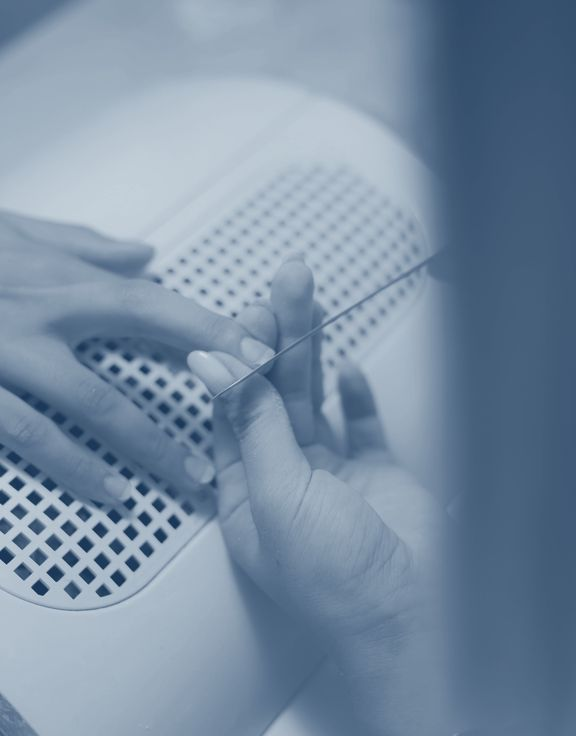
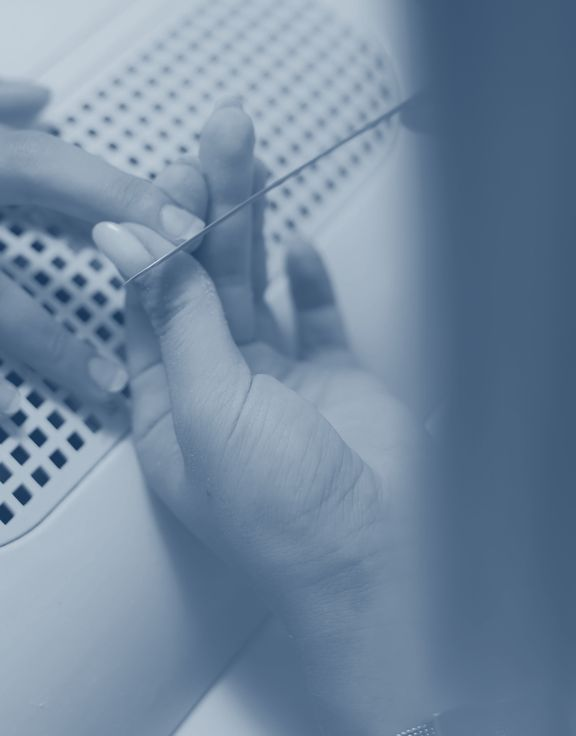
Fotos de cerámica y uñas reencuadradas; títulos sobre azul en amarillo
- Cerámica y uñas recortadas desde los originales para subir las manos y
  que no las tape la conversación con la IA
- scripts/foto-hero.py: opción --recorte; fotos del hero con versión
- Títulos sobre fondo azul en amarillo con sombra sólida rosa

Claude-Session: https://claude.ai/code/session_019NfB4hVUKpwK8j8njTc7B6

diff --git a/index.html b/index.html
@@ -31,7 +31,7 @@
   <link rel="preconnect" href="https://fonts.googleapis.com">
   <link rel="preconnect" href="https://fonts.gstatic.com" crossorigin>
   <link href="https://fonts.googleapis.com/css2?family=Archivo+Black&family=Montserrat:ital,wght@0,400;0,500;0,600;0,700;0,800;1,500&display=swap" rel="stylesheet">
-  <link rel="stylesheet" href="assets/css/styles.css?v=44">
+  <link rel="stylesheet" href="assets/css/styles.css?v=45">
 
   <!-- Datos estructurados: ayudan a Google y a los asistentes de IA a entender quiénes somos -->
   <script type="application/ld+json">
@@ -144,17 +144,17 @@
         <div class="alogo alogo--nav" aria-hidden="true">
           <div class="alogo__leap alogo__leap--back">
             <div class="alogo__swing">
-              <img class="alogo__tailback" src="assets/img/logo/logo-tail.webp?v=44" alt="" width="307" height="269">
+              <img class="alogo__tailback" src="assets/img/logo/logo-tail.webp?v=45" alt="" width="307" height="269">
             </div>
-            <img class="alogo__jaguar" src="assets/img/logo/logo-jaguar.webp?v=44" alt="" width="606" height="518">
+            <img class="alogo__jaguar" src="assets/img/logo/logo-jaguar.webp?v=45" alt="" width="606" height="518">
           </div>
-          <img class="alogo__rstar" src="assets/img/logo/logo-star-red.webp?v=44" alt="" width="444" height="576">
+          <img class="alogo__rstar" src="assets/img/logo/logo-star-red.webp?v=45" alt="" width="444" height="576">
           <div class="alogo__text">
-            <div class="alogo__beat alogo__beat--s"><img class="alogo__singular" src="assets/img/logo/logo-singular.webp?v=44" alt="" width="863" height="132"></div>
-            <div class="alogo__beat alogo__beat--a"><img class="alogo__agencia" src="assets/img/logo/logo-agencia.webp?v=44" alt="" width="1051" height="394"></div>
+            <div class="alogo__beat alogo__beat--s"><img class="alogo__singular" src="assets/img/logo/logo-singular.webp?v=45" alt="" width="863" height="132"></div>
+            <div class="alogo__beat alogo__beat--a"><img class="alogo__agencia" src="assets/img/logo/logo-agencia.webp?v=45" alt="" width="1051" height="394"></div>
           </div>
           <div class="alogo__leap alogo__leap--front">
-            <img class="alogo__feet" src="assets/img/logo/logo-feet.webp?v=44" alt="" width="529" height="148">
+            <img class="alogo__feet" src="assets/img/logo/logo-feet.webp?v=45" alt="" width="529" height="148">
           </div>
         </div>
       </a>
@@ -206,17 +206,17 @@
               <div class="alogo hero__logo" role="img" aria-label="Agencia Singular: logotipo con jaguar y estrellas">
                 <div class="alogo__leap alogo__leap--back">
                   <div class="alogo__swing">
-                    <img class="alogo__tailback" src="assets/img/logo/logo-tail.webp?v=44" alt="" width="307" height="269">
+                    <img class="alogo__tailback" src="assets/img/logo/logo-tail.webp?v=45" alt="" width="307" height="269">
                   </div>
-                  <img class="alogo__jaguar" src="assets/img/logo/logo-jaguar.webp?v=44" alt="" width="606" height="518" fetchpriority="high">
+                  <img class="alogo__jaguar" src="assets/img/logo/logo-jaguar.webp?v=45" alt="" width="606" height="518" fetchpriority="high">
                 </div>
-                <img class="alogo__rstar" src="assets/img/logo/logo-star-red.webp?v=44" alt="" width="444" height="576">
+                <img class="alogo__rstar" src="assets/img/logo/logo-star-red.webp?v=45" alt="" width="444" height="576">
                 <div class="alogo__text">
-                  <div class="alogo__beat alogo__beat--s"><img class="alogo__singular" src="assets/img/logo/logo-singular.webp?v=44" alt="" width="863" height="132"></div>
-                  <div class="alogo__beat alogo__beat--a"><img class="alogo__agencia" src="assets/img/logo/logo-agencia.webp?v=44" alt="" width="1051" height="394"></div>
+                  <div class="alogo__beat alogo__beat--s"><img class="alogo__singular" src="assets/img/logo/logo-singular.webp?v=45" alt="" width="863" height="132"></div>
+                  <div class="alogo__beat alogo__beat--a"><img class="alogo__agencia" src="assets/img/logo/logo-agencia.webp?v=45" alt="" width="1051" height="394"></div>
                 </div>
                 <div class="alogo__leap alogo__leap--front">
-                  <img class="alogo__feet" src="assets/img/logo/logo-feet.webp?v=44" alt="" width="529" height="148">
+                  <img class="alogo__feet" src="assets/img/logo/logo-feet.webp?v=45" alt="" width="529" height="148">
                 </div>
               </div>
             </div>
@@ -303,8 +303,9 @@
               try { localStorage.setItem("hero-negocio", b.id); } catch (e) {}
               var $ = function (s) { return document.querySelector("[data-hero-" + s + "]"); };
               var base = "assets/img/hero/" + b.photo;
-              $("source").srcset = base + ".webp";
-              $("img").src = base + ".jpg";
+              var v = "?v=2"; /* súbelo al cambiar alguna foto para que el navegador la recargue */
+              $("source").srcset = base + ".webp" + v;
+              $("img").src = base + ".jpg" + v;
               $("img").alt = b.alt;
               $("name").textContent = b.name;
               $("rating").textContent = b.rating;
@@ -997,17 +998,17 @@
             <div class="alogo alogo--footer" aria-hidden="true">
             <div class="alogo__leap alogo__leap--back">
               <div class="alogo__swing">
-                <img class="alogo__tailback" src="assets/img/logo/logo-tail.webp?v=44" alt="" width="307" height="269">
+                <img class="alogo__tailback" src="assets/img/logo/logo-tail.webp?v=45" alt="" width="307" height="269">
               </div>
-              <img class="alogo__jaguar" src="assets/img/logo/logo-jaguar.webp?v=44" alt="" width="606" height="518">
+              <img class="alogo__jaguar" src="assets/img/logo/logo-jaguar.webp?v=45" alt="" width="606" height="518">
             </div>
-            <img class="alogo__rstar" src="assets/img/logo/logo-star-red.webp?v=44" alt="" width="444" height="576">
+            <img class="alogo__rstar" src="assets/img/logo/logo-star-red.webp?v=45" alt="" width="444" height="576">
             <div class="alogo__text">
-              <div class="alogo__beat alogo__beat--s"><img class="alogo__singular" src="assets/img/logo/logo-singular.webp?v=44" alt="" width="863" height="132"></div>
-              <div class="alogo__beat alogo__beat--a"><img class="alogo__agencia" src="assets/img/logo/logo-agencia.webp?v=44" alt="" width="1051" height="394"></div>
+              <div class="alogo__beat alogo__beat--s"><img class="alogo__singular" src="assets/img/logo/logo-singular.webp?v=45" alt="" width="863" height="132"></div>
+              <div class="alogo__beat alogo__beat--a"><img class="alogo__agencia" src="assets/img/logo/logo-agencia.webp?v=45" alt="" width="1051" height="394"></div>
             </div>
             <div class="alogo__leap alogo__leap--front">
-              <img class="alogo__feet" src="assets/img/logo/logo-feet.webp?v=44" alt="" width="529" height="148">
+              <img class="alogo__feet" src="assets/img/logo/logo-feet.webp?v=45" alt="" width="529" height="148">
             </div>
           </div>
           </a>
@@ -1051,6 +1052,6 @@
     <a class="btn btn--yellow" href="#contacto"><svg class="icon icon--line" aria-hidden="true"><use href="#i-steth"/></svg>Diagnóstico gratis</a>
   </div>
 
-  <script src="assets/js/main.js?v=44" defer></script>
+  <script src="assets/js/main.js?v=45" defer></script>
 </body>
 </html>

diff --git a/contratar.html b/contratar.html
@@ -15,7 +15,7 @@
   <link rel="preconnect" href="https://fonts.googleapis.com">
   <link rel="preconnect" href="https://fonts.gstatic.com" crossorigin>
   <link href="https://fonts.googleapis.com/css2?family=Archivo+Black&family=Montserrat:ital,wght@0,400;0,500;0,600;0,700;0,800;1,500&display=swap" rel="stylesheet">
-  <link rel="stylesheet" href="assets/css/styles.css?v=44">
+  <link rel="stylesheet" href="assets/css/styles.css?v=45">
 </head>
 <body>
   <a class="skip-link" href="#main">Saltar al contenido</a>
@@ -59,17 +59,17 @@
         <div class="alogo alogo--nav" aria-hidden="true">
           <div class="alogo__leap alogo__leap--back">
             <div class="alogo__swing">
-              <img class="alogo__tailback" src="assets/img/logo/logo-tail.webp?v=44" alt="" width="307" height="269">
+              <img class="alogo__tailback" src="assets/img/logo/logo-tail.webp?v=45" alt="" width="307" height="269">
             </div>
-            <img class="alogo__jaguar" src="assets/img/logo/logo-jaguar.webp?v=44" alt="" width="606" height="518">
+            <img class="alogo__jaguar" src="assets/img/logo/logo-jaguar.webp?v=45" alt="" width="606" height="518">
           </div>
-          <img class="alogo__rstar" src="assets/img/logo/logo-star-red.webp?v=44" alt="" width="444" height="576">
+          <img class="alogo__rstar" src="assets/img/logo/logo-star-red.webp?v=45" alt="" width="444" height="576">
           <div class="alogo__text">
-            <div class="alogo__beat alogo__beat--s"><img class="alogo__singular" src="assets/img/logo/logo-singular.webp?v=44" alt="" width="863" height="132"></div>
-            <div class="alogo__beat alogo__beat--a"><img class="alogo__agencia" src="assets/img/logo/logo-agencia.webp?v=44" alt="" width="1051" height="394"></div>
+            <div class="alogo__beat alogo__beat--s"><img class="alogo__singular" src="assets/img/logo/logo-singular.webp?v=45" alt="" width="863" height="132"></div>
+            <div class="alogo__beat alogo__beat--a"><img class="alogo__agencia" src="assets/img/logo/logo-agencia.webp?v=45" alt="" width="1051" height="394"></div>
           </div>
           <div class="alogo__leap alogo__leap--front">
-            <img class="alogo__feet" src="assets/img/logo/logo-feet.webp?v=44" alt="" width="529" height="148">
+            <img class="alogo__feet" src="assets/img/logo/logo-feet.webp?v=45" alt="" width="529" height="148">
           </div>
         </div>
       </a>
@@ -317,6 +317,6 @@
     </div>
   </footer>
 
-  <script src="assets/js/main.js?v=44" defer></script>
+  <script src="assets/js/main.js?v=45" defer></script>
 </body>
 </html>

diff --git a/guia-aparecer-en-ia-y-google-maps.html b/guia-aparecer-en-ia-y-google-maps.html
@@ -23,7 +23,7 @@
   <link rel="preconnect" href="https://fonts.googleapis.com">
   <link rel="preconnect" href="https://fonts.gstatic.com" crossorigin>
   <link href="https://fonts.googleapis.com/css2?family=Archivo+Black&family=Montserrat:ital,wght@0,400;0,500;0,600;0,700;0,800;1,500&display=swap" rel="stylesheet">
-  <link rel="stylesheet" href="assets/css/styles.css?v=44">
+  <link rel="stylesheet" href="assets/css/styles.css?v=45">
 
   <script type="application/ld+json">
   {
@@ -78,17 +78,17 @@
         <div class="alogo alogo--nav" aria-hidden="true">
           <div class="alogo__leap alogo__leap--back">
             <div class="alogo__swing">
-              <img class="alogo__tailback" src="assets/img/logo/logo-tail.webp?v=44" alt="" width="307" height="269">
+              <img class="alogo__tailback" src="assets/img/logo/logo-tail.webp?v=45" alt="" width="307" height="269">
             </div>
-            <img class="alogo__jaguar" src="assets/img/logo/logo-jaguar.webp?v=44" alt="" width="606" height="518">
+            <img class="alogo__jaguar" src="assets/img/logo/logo-jaguar.webp?v=45" alt="" width="606" height="518">
           </div>
-          <img class="alogo__rstar" src="assets/img/logo/logo-star-red.webp?v=44" alt="" width="444" height="576">
+          <img class="alogo__rstar" src="assets/img/logo/logo-star-red.webp?v=45" alt="" width="444" height="576">
           <div class="alogo__text">
-            <div class="alogo__beat alogo__beat--s"><img class="alogo__singular" src="assets/img/logo/logo-singular.webp?v=44" alt="" width="863" height="132"></div>
-            <div class="alogo__beat alogo__beat--a"><img class="alogo__agencia" src="assets/img/logo/logo-agencia.webp?v=44" alt="" width="1051" height="394"></div>
+            <div class="alogo__beat alogo__beat--s"><img class="alogo__singular" src="assets/img/logo/logo-singular.webp?v=45" alt="" width="863" height="132"></div>
+            <div class="alogo__beat alogo__beat--a"><img class="alogo__agencia" src="assets/img/logo/logo-agencia.webp?v=45" alt="" width="1051" height="394"></div>
           </div>
           <div class="alogo__leap alogo__leap--front">
-            <img class="alogo__feet" src="assets/img/logo/logo-feet.webp?v=44" alt="" width="529" height="148">
+            <img class="alogo__feet" src="assets/img/logo/logo-feet.webp?v=45" alt="" width="529" height="148">
           </div>
         </div>
       </a>
@@ -274,6 +274,6 @@
     </div>
   </footer>
 
-  <script src="assets/js/main.js?v=44" defer></script>
+  <script src="assets/js/main.js?v=45" defer></script>
 </body>
 </html>

diff --git a/404.html b/404.html
@@ -13,7 +13,7 @@
   <link rel="preconnect" href="https://fonts.googleapis.com">
   <link rel="preconnect" href="https://fonts.gstatic.com" crossorigin>
   <link href="https://fonts.googleapis.com/css2?family=Archivo+Black&family=Montserrat:wght@400;500;600;700;800&display=swap" rel="stylesheet">
-  <link rel="stylesheet" href="assets/css/styles.css?v=44">
+  <link rel="stylesheet" href="assets/css/styles.css?v=45">
 </head>
 <body>
   <header class="site-header">
@@ -22,17 +22,17 @@
         <div class="alogo alogo--nav" aria-hidden="true">
           <div class="alogo__leap alogo__leap--back">
             <div class="alogo__swing">
-              <img class="alogo__tailback" src="assets/img/logo/logo-tail.webp?v=44" alt="" width="307" height="269">
+              <img class="alogo__tailback" src="assets/img/logo/logo-tail.webp?v=45" alt="" width="307" height="269">
             </div>
-            <img class="alogo__jaguar" src="assets/img/logo/logo-jaguar.webp?v=44" alt="" width="606" height="518">
+            <img class="alogo__jaguar" src="assets/img/logo/logo-jaguar.webp?v=45" alt="" width="606" height="518">
           </div>
-          <img class="alogo__rstar" src="assets/img/logo/logo-star-red.webp?v=44" alt="" width="444" height="576">
+          <img class="alogo__rstar" src="assets/img/logo/logo-star-red.webp?v=45" alt="" width="444" height="576">
           <div class="alogo__text">
-            <div class="alogo__beat alogo__beat--s"><img class="alogo__singular" src="assets/img/logo/logo-singular.webp?v=44" alt="" width="863" height="132"></div>
-            <div class="alogo__beat alogo__beat--a"><img class="alogo__agencia" src="assets/img/logo/logo-agencia.webp?v=44" alt="" width="1051" height="394"></div>
+            <div class="alogo__beat alogo__beat--s"><img class="alogo__singular" src="assets/img/logo/logo-singular.webp?v=45" alt="" width="863" height="132"></div>
+            <div class="alogo__beat alogo__beat--a"><img class="alogo__agencia" src="assets/img/logo/logo-agencia.webp?v=45" alt="" width="1051" height="394"></div>
           </div>
           <div class="alogo__leap alogo__leap--front">
-            <img class="alogo__feet" src="assets/img/logo/logo-feet.webp?v=44" alt="" width="529" height="148">
+            <img class="alogo__feet" src="assets/img/logo/logo-feet.webp?v=45" alt="" width="529" height="148">
           </div>
         </div>
       </a>
@@ -58,6 +58,6 @@
       </div>
     </div>
   </footer>
-  <script src="assets/js/main.js?v=44" defer></script>
+  <script src="assets/js/main.js?v=45" defer></script>
 </body>
 </html>

diff --git a/aviso-legal.html b/aviso-legal.html
@@ -13,7 +13,7 @@
   <link rel="preconnect" href="https://fonts.googleapis.com">
   <link rel="preconnect" href="https://fonts.gstatic.com" crossorigin>
   <link href="https://fonts.googleapis.com/css2?family=Archivo+Black&family=Montserrat:wght@400;500;600;700;800&display=swap" rel="stylesheet">
-  <link rel="stylesheet" href="assets/css/styles.css?v=44">
+  <link rel="stylesheet" href="assets/css/styles.css?v=45">
 </head>
 <body>
   <header class="site-header">
@@ -22,17 +22,17 @@
         <div class="alogo alogo--nav" aria-hidden="true">
           <div class="alogo__leap alogo__leap--back">
             <div class="alogo__swing">
-              <img class="alogo__tailback" src="assets/img/logo/logo-tail.webp?v=44" alt="" width="307" height="269">
+              <img class="alogo__tailback" src="assets/img/logo/logo-tail.webp?v=45" alt="" width="307" height="269">
             </div>
-            <img class="alogo__jaguar" src="assets/img/logo/logo-jaguar.webp?v=44" alt="" width="606" height="518">
+            <img class="alogo__jaguar" src="assets/img/logo/logo-jaguar.webp?v=45" alt="" width="606" height="518">
           </div>
-          <img class="alogo__rstar" src="assets/img/logo/logo-star-red.webp?v=44" alt="" width="444" height="576">
+          <img class="alogo__rstar" src="assets/img/logo/logo-star-red.webp?v=45" alt="" width="444" height="576">
           <div class="alogo__text">
-            <div class="alogo__beat alogo__beat--s"><img class="alogo__singular" src="assets/img/logo/logo-singular.webp?v=44" alt="" width="863" height="132"></div>
-            <div class="alogo__beat alogo__beat--a"><img class="alogo__agencia" src="assets/img/logo/logo-agencia.webp?v=44" alt="" width="1051" height="394"></div>
+            <div class="alogo__beat alogo__beat--s"><img class="alogo__singular" src="assets/img/logo/logo-singular.webp?v=45" alt="" width="863" height="132"></div>
+            <div class="alogo__beat alogo__beat--a"><img class="alogo__agencia" src="assets/img/logo/logo-agencia.webp?v=45" alt="" width="1051" height="394"></div>
           </div>
           <div class="alogo__leap alogo__leap--front">
-            <img class="alogo__feet" src="assets/img/logo/logo-feet.webp?v=44" alt="" width="529" height="148">
+            <img class="alogo__feet" src="assets/img/logo/logo-feet.webp?v=45" alt="" width="529" height="148">
           </div>
         </div>
       </a>
@@ -70,6 +70,6 @@
       </div>
     </div>
   </footer>
-  <script src="assets/js/main.js?v=44" defer></script>
+  <script src="assets/js/main.js?v=45" defer></script>
 </body>
 </html>

diff --git a/privacidad.html b/privacidad.html
@@ -13,7 +13,7 @@
   <link rel="preconnect" href="https://fonts.googleapis.com">
   <link rel="preconnect" href="https://fonts.gstatic.com" crossorigin>
   <link href="https://fonts.googleapis.com/css2?family=Archivo+Black&family=Montserrat:wght@400;500;600;700;800&display=swap" rel="stylesheet">
-  <link rel="stylesheet" href="assets/css/styles.css?v=44">
+  <link rel="stylesheet" href="assets/css/styles.css?v=45">
 </head>
 <body>
   <header class="site-header">
@@ -22,17 +22,17 @@
         <div class="alogo alogo--nav" aria-hidden="true">
           <div class="alogo__leap alogo__leap--back">
             <div class="alogo__swing">
-              <img class="alogo__tailback" src="assets/img/logo/logo-tail.webp?v=44" alt="" width="307" height="269">
+              <img class="alogo__tailback" src="assets/img/logo/logo-tail.webp?v=45" alt="" width="307" height="269">
             </div>
-            <img class="alogo__jaguar" src="assets/img/logo/logo-jaguar.webp?v=44" alt="" width="606" height="518">
+            <img class="alogo__jaguar" src="assets/img/logo/logo-jaguar.webp?v=45" alt="" width="606" height="518">
           </div>
-          <img class="alogo__rstar" src="assets/img/logo/logo-star-red.webp?v=44" alt="" width="444" height="576">
+          <img class="alogo__rstar" src="assets/img/logo/logo-star-red.webp?v=45" alt="" width="444" height="576">
           <div class="alogo__text">
-            <div class="alogo__beat alogo__beat--s"><img class="alogo__singular" src="assets/img/logo/logo-singular.webp?v=44" alt="" width="863" height="132"></div>
-            <div class="alogo__beat alogo__beat--a"><img class="alogo__agencia" src="assets/img/logo/logo-agencia.webp?v=44" alt="" width="1051" height="394"></div>
+            <div class="alogo__beat alogo__beat--s"><img class="alogo__singular" src="assets/img/logo/logo-singular.webp?v=45" alt="" width="863" height="132"></div>
+            <div class="alogo__beat alogo__beat--a"><img class="alogo__agencia" src="assets/img/logo/logo-agencia.webp?v=45" alt="" width="1051" height="394"></div>
           </div>
           <div class="alogo__leap alogo__leap--front">
-            <img class="alogo__feet" src="assets/img/logo/logo-feet.webp?v=44" alt="" width="529" height="148">
+            <img class="alogo__feet" src="assets/img/logo/logo-feet.webp?v=45" alt="" width="529" height="148">
           </div>
         </div>
       </a>
@@ -66,6 +66,6 @@
       </div>
     </div>
   </footer>
-  <script src="assets/js/main.js?v=44" defer></script>
+  <script src="assets/js/main.js?v=45" defer></script>
 </body>
 </html>

diff --git a/assets/css/styles.css b/assets/css/styles.css
@@ -174,7 +174,11 @@ ul, ol.steps { margin: 0; padding: 0; }
 
 .section-head { display: flex; flex-wrap: wrap; align-items: end; justify-content: space-between; gap: 20px 32px; margin-bottom: clamp(40px, 5vw, 64px); }
 .section-title { font-size: clamp(28px, 3.4vw, 40px); text-transform: uppercase; }
-.section--blue .section-title { color: var(--cream); }
+/* Títulos sobre azul: amarillo con sombra sólida rosa (estilo retro, como botones y tarjetas) */
+.section--blue .section-title,
+.section--blue .faq__intro h2,
+.article-hero h1,
+.notfound h1 { color: var(--yellow); text-shadow: 3px 3px 0 var(--crimson); }
 .section-lead { max-width: 640px; font-size: 17px; margin-top: 14px; }
 .badge {
   background: var(--cream); color: var(--blue); font-family: var(--font-display);
@@ -775,7 +779,7 @@ a.trastienda:hover { transform: translate(-2px, -2px); box-shadow: 5px 5px 0 var
    Páginas de contenido (guía, legal)
    ========================================================================== */
 .article-hero { padding: clamp(48px, 7vw, 88px) 0; }
-.article-hero h1 { font-size: clamp(30px, 4.4vw, 54px); text-transform: uppercase; max-width: 980px; margin-top: 18px; color: var(--cream); }
+.article-hero h1 { font-size: clamp(30px, 4.4vw, 54px); text-transform: uppercase; max-width: 980px; margin-top: 18px; }
 .article-hero p { font-size: 18px; max-width: 760px; margin-top: 18px; }
 .article-meta { display: flex; flex-wrap: wrap; gap: 8px 20px; margin-top: 22px; font-size: 14px; font-weight: 600; color: var(--yellow); }
 .breadcrumbs { font-size: 13px; font-weight: 600; }
@@ -818,7 +822,7 @@ a.trastienda:hover { transform: translate(-2px, -2px); box-shadow: 5px 5px 0 var
 
 .legal { max-width: 820px; padding-top: clamp(48px, 6vw, 80px); padding-bottom: clamp(48px, 6vw, 80px); }
 .notfound { text-align: center; padding: clamp(64px, 10vw, 120px) 0; }
-.notfound h1 { font-size: clamp(40px, 8vw, 96px); color: var(--cream); }
+.notfound h1 { font-size: clamp(40px, 8vw, 96px); }
 .notfound p { font-size: 18px; margin: 16px auto 28px; max-width: 520px; }
 
 /* ==========================================================================

diff --git a/scripts/foto-hero.py b/scripts/foto-hero.py
@@ -3,6 +3,11 @@
 
 Uso:
     python3 scripts/foto-hero.py foto-original.jpg taller
+    python3 scripts/foto-hero.py foto-original.jpg ceramica --recorte 0.25,0.49,0.60
+
+--recorte izquierda,arriba,ancho (fracciones de 0 a 1 de la foto original) elige qué parte
+usar. Útil para subir el sujeto y que no lo tape la conversación con la IA, que ocupa la
+parte baja de la foto.
 
 Genera assets/img/hero/taller.webp y assets/img/hero/taller.jpg (576 × 736, tono azul
 pizarra). Después, en index.html, pon  photo: "taller"  en el negocio correspondiente.
@@ -17,8 +22,15 @@ SOMBRA = (28, 56, 88)             # azul oscuro de las sombras
 LUZ = (205, 216, 224)             # crema azulado de las luces
 
 
-def preparar(origen: str, nombre: str) -> None:
-    im = Image.open(origen).convert("RGB")
+def preparar(origen: str, nombre: str, recorte=None) -> None:
+    im = ImageOps.exif_transpose(Image.open(origen)).convert("RGB")
+    if recorte:
+        izq, arriba, ancho = recorte
+        cw = im.width * ancho
+        ch = cw * H / W
+        x0, y0 = im.width * izq, im.height * arriba
+        y0 = min(y0, im.height - ch)
+        im = im.crop((round(x0), round(y0), round(x0 + cw), round(y0 + ch)))
     im = ImageOps.fit(im, (W, H), Image.LANCZOS, centering=(0.5, 0.45))
     gris = ImageEnhance.Contrast(ImageOps.grayscale(im)).enhance(1.15)
     tono = ImageOps.colorize(gris, black=SOMBRA, white=LUZ, mid=(96, 120, 146))
@@ -30,6 +42,12 @@ def preparar(origen: str, nombre: str) -> None:
 
 
 if __name__ == "__main__":
-    if len(sys.argv) != 3:
+    args = sys.argv[1:]
+    recorte = None
+    if "--recorte" in args:
+        i = args.index("--recorte")
+        recorte = tuple(float(v) for v in args[i + 1].split(","))
+        del args[i:i + 2]
+    if len(args) != 2:
         sys.exit(__doc__)
-    preparar(sys.argv[1], sys.argv[2])
+    preparar(args[0], args[1], recorte)

diff --git a/README.md b/README.md
@@ -71,3 +71,8 @@ muestran los negocios que tienen foto. Para activar uno:
 
 1. `python3 scripts/foto-hero.py foto.jpg taller` (crea `assets/img/hero/taller.webp` y `.jpg`).
 2. En `index.html`, en la lista de negocios del hero, cambia `photo: null` por `photo: "taller"`.
+
+Si la conversación con la IA tapa lo importante de la foto, recórtala para subir el sujeto:
+`python3 scripts/foto-hero.py foto.jpg ceramica --recorte 0.22,0.49,0.62` (izquierda, arriba y ancho, en
+fracciones de la foto original). Al cambiar una foto, sube el número `v` del script del hero en
+`index.html` para que los navegadores la recarguen.
